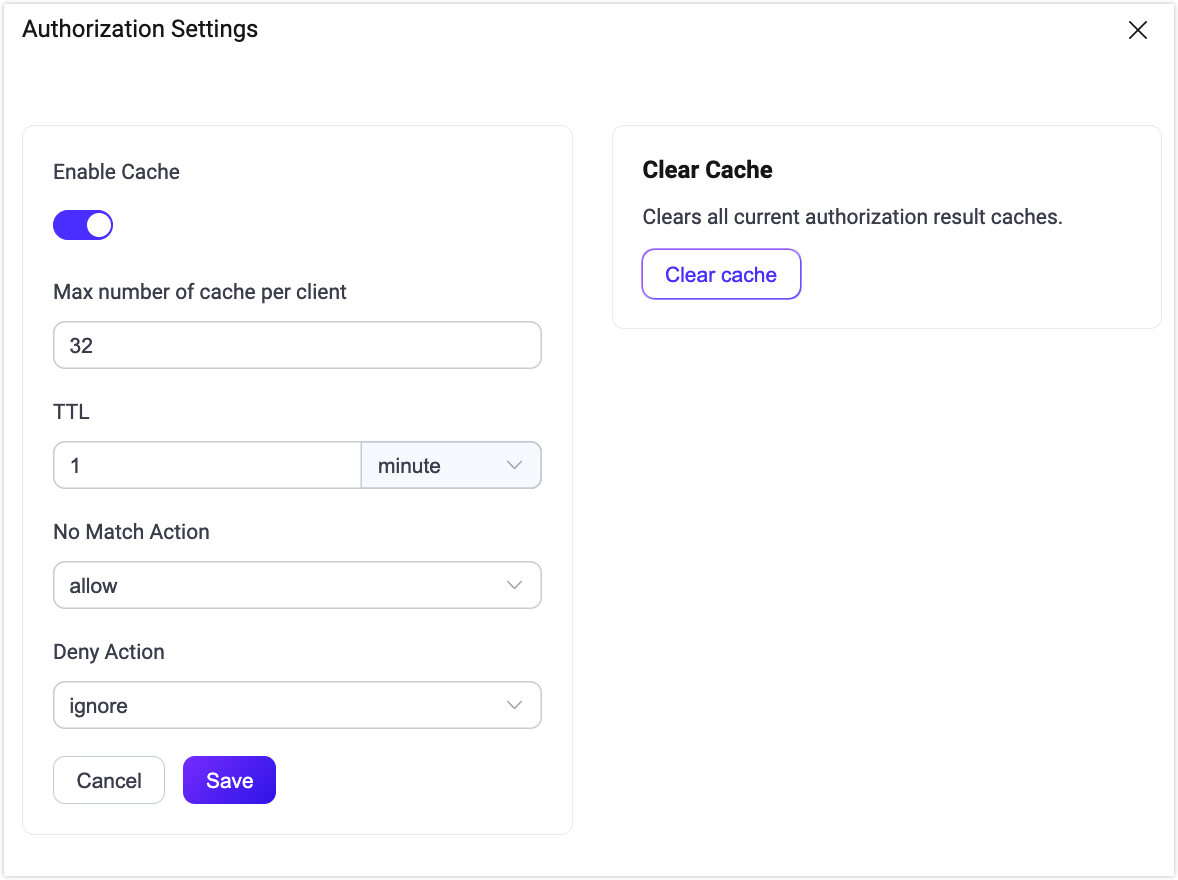
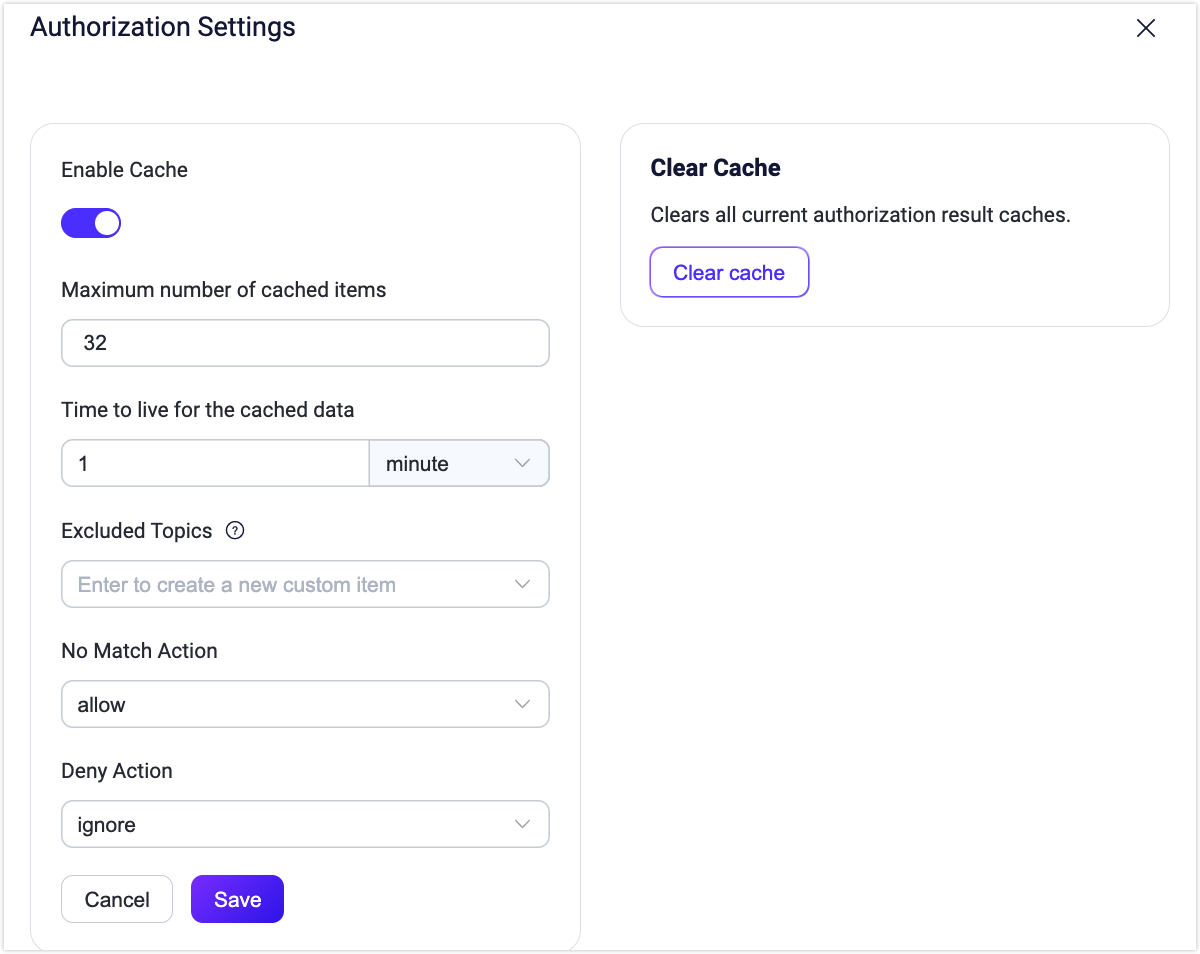
Synchronized the EN files

diff --git a/en_US/messaging/mqtt-retained-message.md b/en_US/messaging/mqtt-retained-message.md
@@ -85,15 +85,17 @@ Now you have tried using the MQTTX Client to send a retained message. You can al
 
 ## View Retained Message in Dashboard
 
-When a user publishes a retained message, EMQX will save this message in the system. The user can view this message on the Retained Messages list page. When the user subscribes to the topic of this retained message, EMQX will publish this message to the topic, and users can receive this message immediately by subscribing to the topic.
+When you publish a retained message, EMQX will save this message in the system. you can view this message on the Retained Messages list page. When you subscribe to the topic of this retained message, EMQX will publish this message to the topic, and you can receive this message immediately by subscribing to the topic.
 
-The default expiration time of the retained message is never expired unless the user manually deletes this message.
+The default expiration time of the retained message is never expired unless you manually delete this message.
 
 ### Retained Messages List
 
-On the **Retained Messages** list page, users can view all retained messages in the system, including the topic, QoS, publish time, and client ID. The page also provides options to view the payload of a retained message and delete it using the **Show Payload** and **Delete** buttons respectively. Users can refresh the list using the **Refresh** button and access the retained message settings page using the **Settings** button.
+In the **Monitoring** -> **Retained Messages** page, you can view all the retained messages in the system, including the topic, QoS, publish time, and client ID. The search box allows for filtering through search, and it supports topic wildcards.
 
-The default will save three types of retained messages [system topics](./mqtt-concepts.md). If it is a cluster environment, it will keep different system topics' retained messages according to other node names. They are:
+The page also provides options to view the payload of a retained message and delete it using the **Show Payload** and **Delete** buttons respectively. You can refresh the list using the **Refresh** button and access the retained message settings page using the **Settings** button.
+
+You can see the following 3 types of retained messages from [system topics](./mqtt-concepts.md) by default:
 
 - $SYS/brokers/+/sysdescr: System description of the current EMQX node
 - $SYS/brokers/+/version: Version number of the current EMQX node
@@ -103,4 +105,4 @@ The default will save three types of retained messages [system topics](./mqtt-co
 
 ### Delete Retained Message
 
-To delete a retained message in EMQX, users can either publish an empty message to the topic of the retained message in the client or use the EMQX Dashboard. In the Dashboard, users can simply click the **Delete** button on the Retained Messages list page to remove a retained message. Additionally, users can also set the expiration time for retained messages on the Retained Messages configuration page, allowing EMQX to automatically delete them when they expire.
+To delete a retained message in EMQX, you can either publish an empty message to the topic of the retained message in the client or use the EMQX Dashboard. In the Dashboard, you can click the **Delete** button for a specific retained message to remove it. You can also delete all retained messages on the cluster by using the **Clear All** button. Additionally, you can also set the expiration time for retained messages on the Retained Messages configuration page, allowing EMQX to automatically delete them when they expire.

diff --git a/en_US/access-control/authz/authz.md b/en_US/access-control/authz/authz.md
@@ -49,9 +49,11 @@ To better handle the access pressure brought by a large number of publish/subscr
 
 - **Enable Cache**: Setting for whether to enable cache for the authorization data.
 
-- **Max number of cache per client**: The maximum number of cache for single client; the default setting is **32**.
+- **Max number of cached items**: The maximum number of cache for single client; the default setting is **32**.
 
-- **Cache TTL**: The living time of cache data; unit is **minute**.
+- **Time to live for the cached data**: The living time of cached data, defaulting to 1 minute.
+
+- **Excluded Topics**: Provides a list of topics for which authorization cache will not be generated.
 
 - **No Match Action**: The action to take when all authorizers fail to retrieve authorization information; values to choose: **allow** (to operate), **deny** (to operate); default value: **allow**.
 
@@ -227,6 +229,7 @@ authorization {
   cache {
     enable = true
     max_size = 32
+    excludes = ["t/1", "t/2"]
     ttl = 1m
   }
 }
@@ -244,6 +247,8 @@ Where,
 * `cache.enable`: Specifies whether to enable caching, default: `true`. If the authorization is solely based on the JWT packets, it is recommended to configure this field `false`.
   
 * `cache.max_size`: Specifies the maximum number of elements in the cache; default: 32. Older records will be removed from the cache if the specified number exceeds.
+  
+* `cache.excludes`: A list of excluded topics, for which authorization cache will not be generated; default value: `[]`.
   
 * `cache.ttl`: Specifies the effective time of cached values, default: `1m` (one minute). 
 

diff --git a/en_US/admin/api.md b/en_US/admin/api.md
@@ -186,6 +186,30 @@ EMQX follows the [HTTP Response Status Code](https://developer.mozilla.org/en-US
 | 409   | Conflict. The object already exists or the number limit is exceeded |
 | 500   | Internal Server Error. Check the reason in the Body and logs |
 
+## Pagination
+
+Some APIs support pagination. You can control the pagination by using the `page` (page number) and `limit` (page size) parameters. The maximum page size is `10000`. If the `limit` parameter is not specified, the default is `100`.
+
+For example:
+
+```bash
+GET /clients?page=1&limit=100
+```
+
+In the response result, the `meta` field will contain pagination information. For requests that use search conditions, EMQX cannot predict how many data entries there are, so the `meta.hasnext` field indicates whether there is more data on the next page:
+
+```json
+{
+  "data":[],
+  "meta":{
+    "count":0,
+    "limit":20,
+    "page":1,
+    "hasnext":false
+  }
+}
+```
+
 ## Error Codes
 
 Besides the HTTP response status codes, EMQX also defines a list of error codes to identify specific errors.
